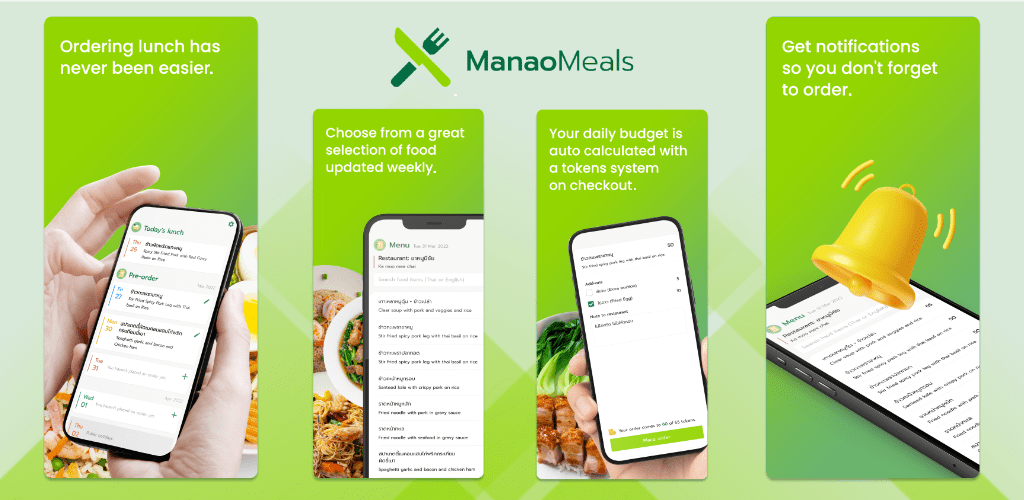
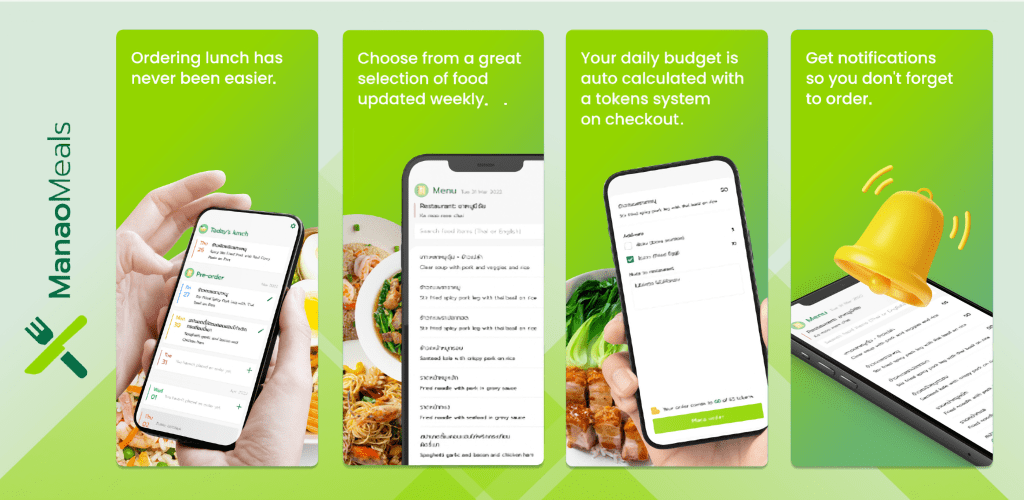
feat: add Lotus's, Egg POS, Manao Meals projects

diff --git a/lib/screens/home/projects/projects.dart b/lib/screens/home/projects/projects.dart
@@ -4,18 +4,81 @@ import '../../../constants/image_paths.dart';
 import 'project_container.dart';
 import 'project_buttons.dart';
 
+ProjectContainer get lotusMerchantApp => ProjectContainer(
+      title: 'Lotus\'s Merchant',
+      description:
+          'The food delivery service industry has exploded in Thailand over the '
+          'last few years. In an effort to capture part of this demand Lotus\'s '
+          '(one of Thailand\'s largest retail chains) has created the Lotus\'s '
+          'Merchant app.\n\nFor use by restaurant merchants and run on the Sunmi V2 '
+          'Pro point of sale device, the app gives merchants a central place to '
+          'manage the operations of their business.  Features include delivery '
+          'order coordination, inventory management, coupon tracking, and staffing '
+          'controls.',
+      imagePath: Projects.lotusMerchant,
+      direction: SlideDirection.leftToRight,
+      projectColor: const Color(0xFF00BCB5),
+      techButtons: [_dart, _flutter, _bloc],
+    );
+
+ProjectContainer get eggPOSApp => ProjectContainer(
+      title: 'Egg POS',
+      description:
+          'Egg POS is a store management system that gives business owners '
+          'access to the workings of their store anytime anywhere.\n\nThe app '
+          'is suitable for retail stores, restaurants, cafes, as well as '
+          'many other types of businesses.  Features include merchandise '
+          'management, inventory tracking, staff scheduling, and payment services.',
+      imagePath: Projects.eggPOS,
+      direction: SlideDirection.rightToLeft,
+      projectColor: const Color(0xFFFBD606),
+      techButtons: [_dart, _flutter, _bloc],
+      downloadButton: const DownloadButton(
+        imagePath: Logos.googlePlay,
+        url:
+            'https://play.google.com/store/apps/details?id=com.eggdigital.horeca.eggpos&hl=en_US&gl=US',
+      ),
+    );
+
+ProjectContainer get manaoMealsApp => ProjectContainer(
+      title: 'Manao Meals',
+      description:
+          'One of the many benefits of working with Manao Software was a free '
+          'daily meal allowance for all employees. In an effort to coordinate meal '
+          'ordering amongst the employees we created the Manao Meals mobile app.\n\n'
+          'Manao Meals gives users an easy way to manage their upcoming meal '
+          'schedule. Within the app you can place, update, and removed orders for '
+          'the week. Users are allotted a set number of tokens they can use for '
+          'each meal. These tokens are then deducted from their account '
+          'according to each meal\'s cost. Users are sent push notifications to '
+          'remind them to place their orders before the ordering deadline. '
+          'Manao Meals has successfully been adopted by the employees company-wide.',
+      imagePath: Projects.manaoMeals,
+      direction: SlideDirection.leftToRight,
+      projectColor: const Color(0xFF93D500),
+      techButtons: [_dart, _flutter, _getX],
+      downloadButton: const DownloadButton(
+        imagePath: Logos.googlePlay,
+        url:
+            'https://play.google.com/store/apps/details?id=com.manaosoftware.lunchnao&gl=th',
+      ),
+    );
+
 ProjectContainer get thaiWordOfTheDayApp => ProjectContainer(
       title: 'Thai Word of the Day',
       description:
           'As an avid language learner I noticed we were missing a decent '
           'word of the day app for the Thai language, so I designed and built one. '
-          'Each day receive a new Thai word with multiple definitions, '
-          'example sentences, and more.\n\n'
+          'Each day the user receives a new Thai word with multiple definitions, '
+          'example sentences, compound words, phonemics and more. Users have the '
+          'option to save their favorite words to study later. The app also lets '
+          'users choose to slow down speech playback or space out Thai words to '
+          'ease studying for beginners.\n\n'
           'The app employs multiple services from Firebase including: '
           'Firestore, Messaging, AdMob, Functions, Authentication, '
           'Analytics, Crashlytics, and AppCheck.',
       imagePath: Projects.thaiWordOfTheDay,
-      direction: SlideDirection.leftToRight,
+      direction: SlideDirection.rightToLeft,
       projectColor: const Color(0xFFFFCC4D),
       techButtons: [_dart, _flutter, _firebase, _bloc],
       downloadButton: const DownloadButton(
@@ -30,12 +93,12 @@ ProjectContainer get animatedFlightPathsPackage => ProjectContainer(
       description: 'While building this site I decided I wanted to include '
           'a bit of background about where I\'ve lived throughout the world. '
           'In doing so I started to implement a custom painter for animating '
-          'flight paths across a world map.\n\nAs I was developing the feature for '
-          'this site it dawned upon me that others might find it useful or fun '
+          'flight paths across a world map.\n\nAs I was developing the feature '
+          'it dawned upon me that others might find it useful or fun '
           'too so I separated it out into its own package. Bon voyage! ✈',
       imagePath: Projects.animatedFlightPaths,
-      direction: SlideDirection.rightToLeft,
-      projectColor: const Color(0xFF47F3FF),
+      direction: SlideDirection.leftToRight,
+      projectColor: const Color(0xFFAF238B),
       techButtons: [_dart, _flutter],
       downloadButton: const DownloadButton(
         imagePath: Logos.pubDev,
@@ -46,12 +109,12 @@ ProjectContainer get animatedFlightPathsPackage => ProjectContainer(
 ProjectContainer get multiBorderPackage => ProjectContainer(
       imagePath: Projects.multiBorder,
       title: 'MultiBorder Package',
-      description: 'While working on a project I needed a way to add two '
-          'borders around a container.  The way to do so in Flutter is a bit '
+      description: 'As part of another project I needed a way to add two '
+          'borders around a container. The way to do so in Flutter is a bit '
           'verbose and I figured I may want to use this decoration again in the '
           'future, so here you have the birth of the MultiBorder package.',
-      direction: SlideDirection.leftToRight,
-      projectColor: const Color(0xFFF14A42),
+      direction: SlideDirection.rightToLeft,
+      projectColor: const Color(0xFFF27D3B),
       techButtons: [_dart, _flutter],
       downloadButton: const DownloadButton(
         imagePath: Logos.pubDev,
@@ -63,24 +126,23 @@ ProjectContainer get portfolioSite => ProjectContainer(
       imagePath: Projects.portfolioSite,
       title: 'Portfolio Site',
       description:
-          'Yo dawg, I herd you like Flutter sites so I put a Flutter site in '
-          'this Flutter site.\n\n'
-          'In all seriousness though, I figured I\'m a Flutter dev so I should '
-          'build my portfolio site with Flutter. So that\'s what I\'ve done.',
-      direction: SlideDirection.rightToLeft,
-      projectColor: const Color(0xFFF6C427),
+          'Being a Flutter dev I figured I should build my Flutter portfolio site '
+          'with Flutter, so that\'s exactly what I\'ve done.\n\n'
+          'Flutter Flutter Flutter!',
+      direction: SlideDirection.leftToRight,
+      projectColor: const Color(0xFF45D1FD),
       techButtons: [_dart, _flutter, _riverpod, _flutterHooks],
     );
 
-ProjectContainer get comingSoon => ProjectContainer(
-      imagePath: Projects.comingSoon,
+ProjectContainer get languageTuner => ProjectContainer(
+      imagePath: Projects.languageTuner,
       title: 'Language Tuner',
       description:
-          'A work in progress here. Language Tuner (name yet confirmed) will '
-          'focus on improving the language learner\'s listening skills. The '
-          'app will be marketed towards a more niche crowd of upper '
+          'Language Tuner (name yet confirmed) is my next venture into the language '
+          'learning space. The app will focus on improving the language learner\'s '
+          'listening skills. It will be marketed towards a more niche crowd of upper '
           'intermediate to advanced learners. Stay tuned for updates!',
-      direction: SlideDirection.leftToRight,
+      direction: SlideDirection.rightToLeft,
       projectColor: const Color(0xFF06D6A0),
       techButtons: [_dart, _flutter, _firebase],
     );
@@ -119,4 +181,10 @@ TechButton get _flutterHooks => const TechButton(
       imagePath: Logos.flutterHooks,
       url: 'https://pub.dev/packages/flutter_hooks',
       tooltipMessage: 'Flutter Hooks',
+    );
+
+TechButton get _getX => const TechButton(
+      imagePath: Logos.getX,
+      url: 'https://pub.dev/packages/get',
+      tooltipMessage: 'GetX',
     );

diff --git a/lib/screens/home/projects/projects_section.dart b/lib/screens/home/projects/projects_section.dart
@@ -63,19 +63,23 @@ class _ProjectsSectionState extends ConsumerState<ProjectsSection> {
 
   Widget get _mobile => Column(
         children: [
+          lotusMerchantApp,
+          eggPOSApp,
+          manaoMealsApp,
           thaiWordOfTheDayApp,
           animatedFlightPathsPackage,
           multiBorderPackage,
           portfolioSite,
-          comingSoon,
+          languageTuner,
         ].withSpaceBetween(height: 40),
       );
 
   Widget get _desktop => Column(
         children: [
-          _projectRow(thaiWordOfTheDayApp, animatedFlightPathsPackage),
-          _projectRow(multiBorderPackage, portfolioSite),
-          _projectRow(comingSoon, const SizedBox()),
+          _projectRow(lotusMerchantApp, eggPOSApp),
+          _projectRow(manaoMealsApp, thaiWordOfTheDayApp),
+          _projectRow(animatedFlightPathsPackage, multiBorderPackage),
+          _projectRow(portfolioSite, languageTuner),
         ].withSpaceBetween(height: 64),
       );
 

diff --git a/lib/screens/home/projects/project_container.dart b/lib/screens/home/projects/project_container.dart
@@ -84,7 +84,7 @@ class ProjectContainer extends HookWidget {
   }
 
   Widget get _projectImage => Card(
-        elevation: 12,
+        elevation: 16,
         color: Colors.transparent,
         margin: EdgeInsets.zero,
         clipBehavior: Clip.antiAlias,
@@ -99,7 +99,9 @@ class ProjectContainer extends HookWidget {
       TranslucentBackground(
         color: projectColor,
         child: Padding(
-          padding: const EdgeInsets.all(16.0),
+          padding: EdgeInsets.all(
+            responsiveValue(context, mobile: 20, desktop: 24),
+          ),
           child: Column(
             crossAxisAlignment: CrossAxisAlignment.start,
             mainAxisSize: MainAxisSize.min,
